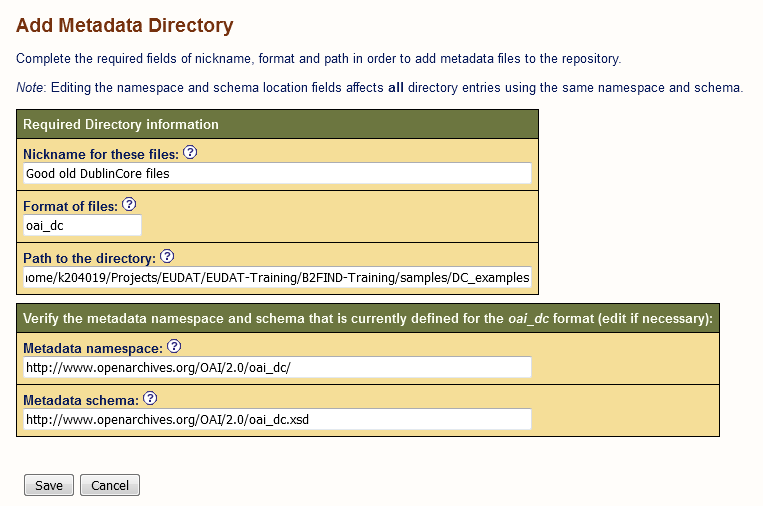
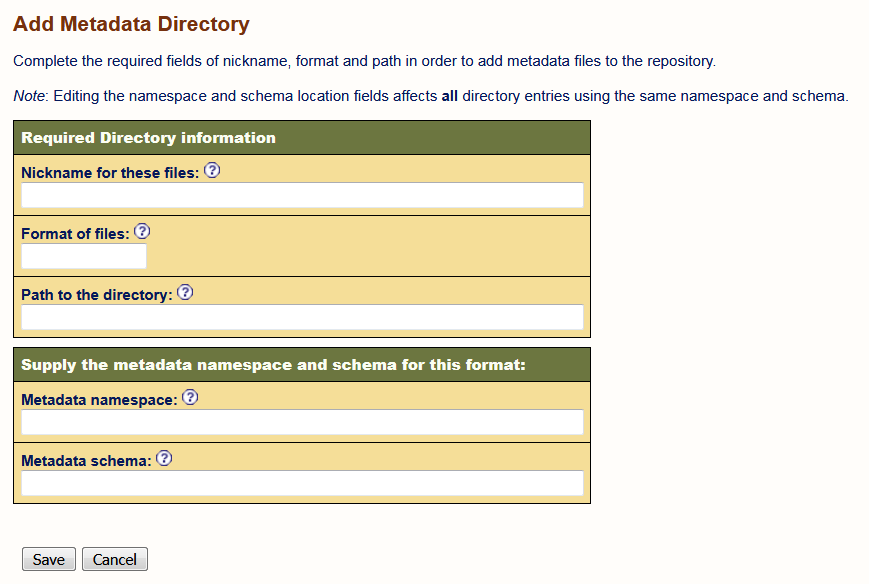
Update 02.a-configure-OAI-data_provider.md and add further images

Changed region(s): [[0.0, 0.0296, 0.9948, 0.8893], [0.0, 0.919, 0.1809, 0.9783]]

diff --git a/mdmanager.py b/mdmanager.py
@@ -1894,7 +1894,7 @@ class UPLOADER (object):
         jsondata["name"] = ds
         jsondata["state"]='active'
         jsondata["groups"]=[{ "name" : community }]
-##HEW!!!!
+##HEW- changed!!!!
         jsondata["owner_org"]="crete" ##HEW!!! "eudat"
 
 

diff --git a/02.a-configure-OAI-data_provider.md b/02.a-configure-OAI-data_provider.md
@@ -1,13 +1,12 @@
 # Configuration of an OAI Data Provider
-This document describes how to configure your own OAI-PMH data provider based on a 
-jOAI installation. 
+This document describes how to configure your own OAI-PMH data provider based on a jOAI installation. 
 
 ## Environment
 Ubuntu 14.04 server
 
 ##Prerequisites
 ### 1. Installation of the jOAI software running in an Apache Tomcat.
-See 00-install-jOAI.md for details.
+See [02-install-jOAI.md](02-install-jOAI.md) for details.
 ### 2. Admin account
 If you start the provider setup you are prompted to login as user *admin*. By default the password is set as well to *admin*.
 <!-- Is this true ??
@@ -24,12 +23,33 @@ But you can use as well the DublinCore XML files you have generated in modul 01.
 
 
 ## Configuration
+
 ### 1. Configuration and custumization
-Open the GUI of joai at ```http://localhost/oai ``` and go in the menu `Data Provider` to `Metadata Files Configuration` and fill out the text fields :
+Open the GUI of joai at ```http://localhost/oai``` and go in the menu `Data Provider` to `Metadata Files Configuration`.
+
+#### Add a metadata directory
+By clicking on ```Add metadata directory``` a page opens, 
 
 <img align="centre" src="img/jOAI_AddMDDirectory.png" width="800px">
 
-* Nickname for these files : Just a label, that describes the content of your metadata ...
-* Format of files : The metadata format for the files, e.g. `oai_dc` for *Dublin Core Format*
-* Path to the directory : Location of the XML files
-* Metadata schema: The URL of the associated MD schema (is automatically filled out, if a known OAI metadata format is specified as e.g. `oai_dc`
+where you have to fill in the *Required Directory information* :
+* Nickname for these files : Just a label, that describes the content of your metadata. 
+* Format of files : The metadata format for the files, e.g. ```oai_dc``` for *Dublin Core Format*
+* Path to the directory : Location of the XML files, e.g. the paths to the generated XML files for the *fishproject* as described in the module [01.b-generate-metadata.md](01.b-generate-metadata.md). 
+and optionally specification of the metadata namespace and schema :
+* Meatdata namespace: An XML label, written as a web address, which is used to distinguish and identify where markup has come from. In general this can be found near the top of an XML instance document for the given format. If the format is recognized by the software this field will be filled in automatically.
+* Metadata schema: The URL of the associated MD schema (is automatically filled out, if a known OAI metadata format is specified as e.g. `oai_dc`)
+
+For the *fishproject* this may be looka as :
+
+<img align="centre" src="img/jOAI_AddMDDirectory_2.png" width="800px">
+ 
+Clicking on ```Save``` should result in a new metadata directory listed as :
+<img align="centre" src="img/MDDirectory_1.png" width="800px">
+
+You can see that there are eight files in the new metadata directory (column *Num files*).
+In order to make tehm available they must first get *indexed*. For thsi click please the button ```Reindex``` in the right column ```Action```. If all works fine, eight files are indicated as indexed (see column ```Num Ready```) as shown in the following figure.
+<img align="centre" src="img/MDDirectory_2.png" width="800px">
+
+#### Create and assign an OAI set 
+  
